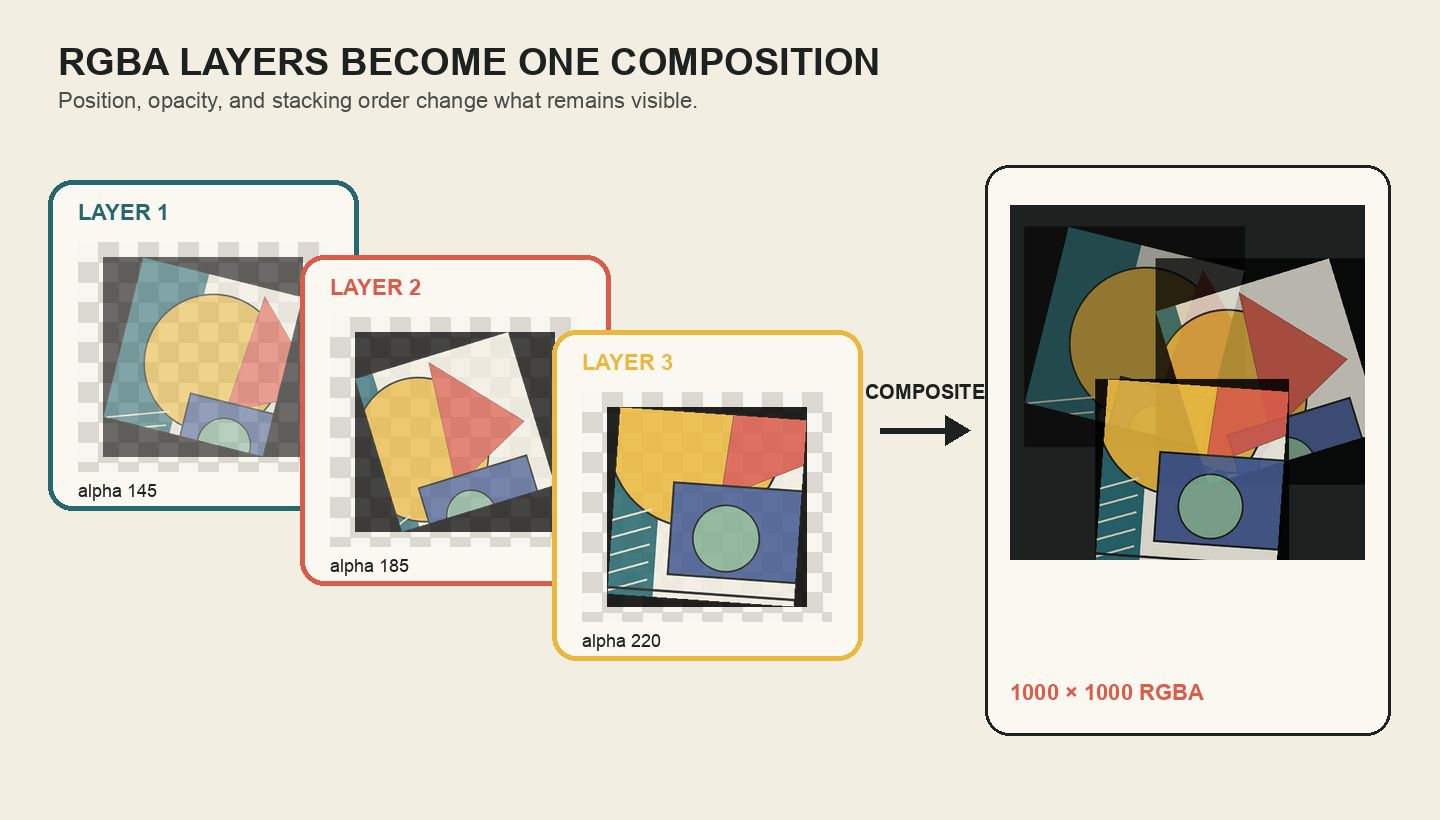
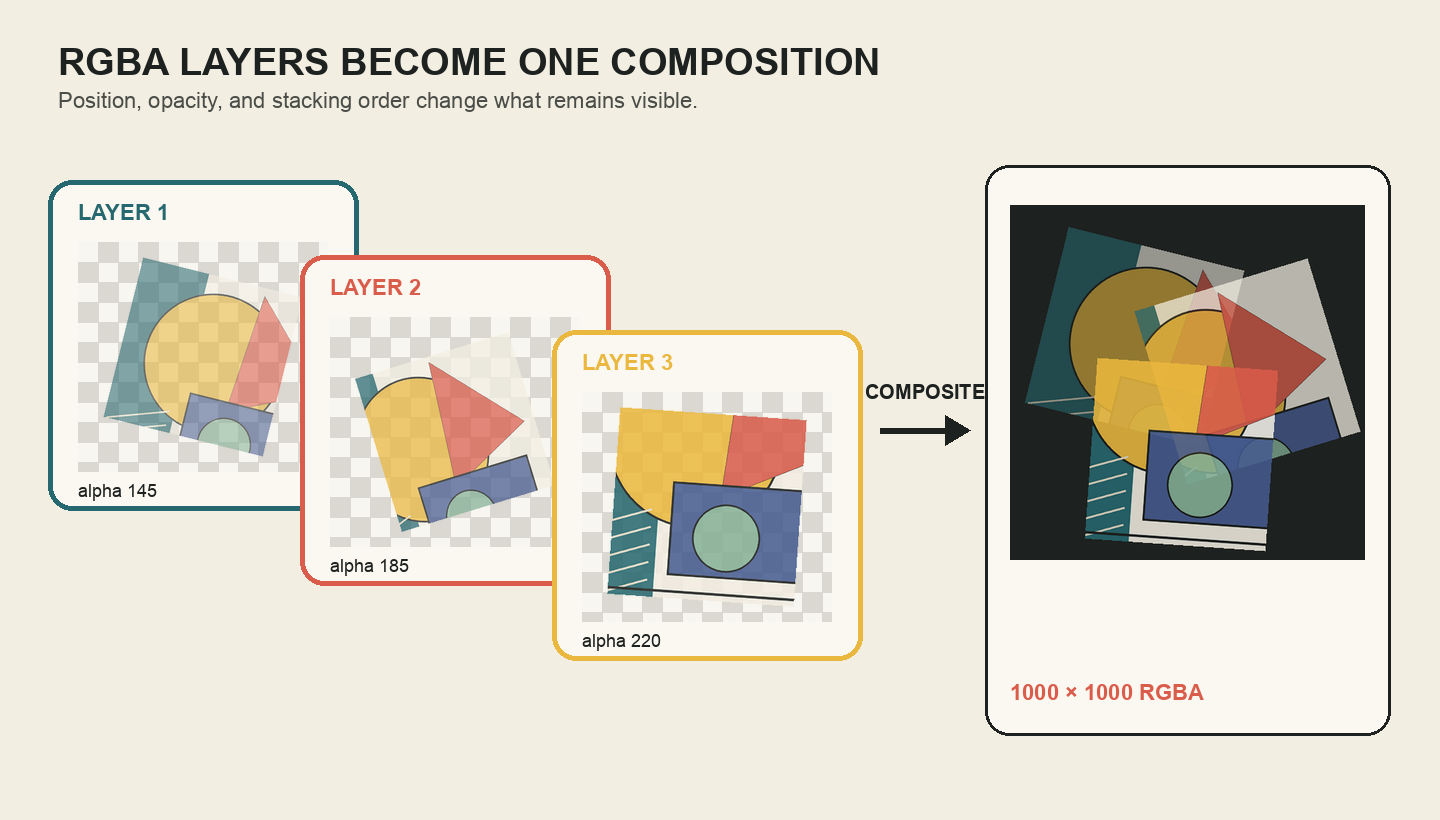
Harden week 7 mission checks and visuals

Changed region(s): [[0.0625, 0.3049, 0.5625, 0.6707], [0.75, 0.3049, 0.9688, 0.7012], [0.4062, 0.5793, 0.5625, 0.7622]]

diff --git a/teaching/contents-programming/week-07-period2.html b/teaching/contents-programming/week-07-period2.html
@@ -209,7 +209,7 @@ position = (x, y)</code></pre>
       <p>“<code>canvas</code> 위에 <code>layer</code>를 올리되, 레이어의 왼쪽 위를 <code>dest=(x, y)</code>에 맞추어 알파 합성한다”라고 읽습니다. 캔버스와 레이어는 모두 RGBA 모드여야 하며, 위치를 생략하면 왼쪽 위 <code>(0, 0)</code>을 기준으로 합성됩니다.</p>
 
       <pre><code>canvas.alpha_composite(layer_1, dest=(40, 70))
-canvas.alpha_composite(layer_2, dest=(565, 110))
+canvas.alpha_composite(layer_2, dest=(540, 110))
 canvas.alpha_composite(layer_3, dest=(345, 555))</code></pre>
 
       <p>코드는 위에서 아래로 실행됩니다. 따라서 <code>layer_1</code>이 먼저 놓이고, <code>layer_2</code>가 그 위에, <code>layer_3</code>가 가장 마지막에 놓입니다. 같은 위치와 알파 값을 사용해도 레이어 순서를 바꾸면 서로 가리는 부분이 달라져 최종 결과가 달라집니다.</p>
@@ -257,12 +257,13 @@ canvas.alpha_composite(layer_3, dest=(345, 555))</code></pre>
 
       <pre><code>canvas = Image.new("RGBA", (1000, 1000), (29, 33, 31, 255))
 
-layer_1 = make_layer(source_image, crop_box_1, (430, 430), -16, 150)
-layer_2 = make_layer(source_image, crop_box_2, (360, 360), 19, 190)
-layer_3 = make_layer(source_image, crop_box_3, (290, 290), -6, 225)
+crop_box = (140, 120, 760, 780)
+layer_1 = make_layer(source_image, crop_box, (420, 420), -16, 150)
+layer_2 = make_layer(source_image, crop_box, (340, 340), 19, 190)
+layer_3 = make_layer(source_image, crop_box, (260, 260), -6, 225)
 
 canvas.alpha_composite(layer_1, dest=(40, 70))
-canvas.alpha_composite(layer_2, dest=(565, 110))
+canvas.alpha_composite(layer_2, dest=(540, 110))
 canvas.alpha_composite(layer_3, dest=(345, 555))
 
 canvas.save("week07_20260000_김민지.png")</code></pre>
@@ -270,13 +271,13 @@ canvas.save("week07_20260000_김민지.png")</code></pre>
       <p><code>make_layer()</code>는 6주차에 배운 함수의 장점을 다시 사용합니다. 자르기와 크기 변경, 회전, 알파 적용이라는 반복 작업을 한 이름으로 묶고, 서로 다른 값만 인자로 전달합니다. 3교시 노트북에는 이 함수가 준비되어 있으므로 학생은 함수 내부를 고치지 않고 선택 값에 집중합니다.</p>
 
       <figure class="lesson-visual" aria-labelledby="prototype-caption">
-        <img src="assets/week-07-prototype-example.png" width="1200" height="900" loading="lazy" decoding="async" alt="한 수업용 원본을 서로 다른 영역과 크기, 각도, 투명도로 변형한 세 레이어를 어두운 정사각형 캔버스에 합성한 프로토타입">
+        <img src="assets/week-07-prototype-example.png" width="1200" height="900" loading="lazy" decoding="async" alt="한 수업용 원본의 같은 선택 영역을 서로 다른 크기, 각도, 투명도로 변형한 세 레이어를 어두운 정사각형 캔버스에 합성한 프로토타입">
         <figcaption id="prototype-caption">완성 예시는 정답 디자인이 아닙니다. 하나의 원본에서 서로 다른 세 레이어를 만들고, 겹침을 확인할 수 있는 구조의 예시입니다.</figcaption>
       </figure>
 
       <details class="callout callout-question">
         <summary class="callout-title">확인: 세 레이어가 같은 함수에서 나와도 다른 이유는?</summary>
-        <div class="details-motion-content"><p>함수의 규칙은 같지만 crop_box, 목표 크기, 각도, 알파, 위치라는 입력값이 다르기 때문입니다. 6주차에서 같은 생성 함수에 다른 매개변수를 넣어 변주를 만든 원리와 같습니다.</p></div>
+        <div class="details-motion-content"><p>함수의 규칙과 <code>crop_box</code>는 같지만 목표 크기, 각도, 알파, 위치라는 입력값이 다르기 때문입니다. 6주차에서 같은 생성 함수에 다른 매개변수를 넣어 변주를 만든 원리와 같습니다.</p></div>
       </details>
 
       <h2 id="source-record">44-50분 · 이미지의 허용 범위와 변형 기록하기</h2>

diff --git a/scripts/generate-week07-transformation-assets.py b/scripts/generate-week07-transformation-assets.py
@@ -1,5 +1,6 @@
 """Generate deterministic Week 7 teaching visuals for image transformation lessons."""
 
+from dataclasses import dataclass
 from pathlib import Path
 
 from PIL import Image, ImageDraw, ImageFont
@@ -16,6 +17,17 @@ CORAL = (218, 92, 74, 255)
 YELLOW = (234, 184, 62, 255)
 BLUE = (70, 91, 145, 255)
 MINT = (133, 177, 151, 255)
+
+
+@dataclass(frozen=True)
+class LayerSpec:
+    """Describe one transformed layer without relying on tuple positions."""
+
+    crop_box: tuple[int, int, int, int]
+    target_size: tuple[int, int]
+    angle: float
+    alpha: int
+    position: tuple[int, int]
 
 
 def font(size: int, bold: bool = False) -> ImageFont.ImageFont:
@@ -184,20 +196,17 @@ def make_transform_operations(source: Image.Image) -> Image.Image:
 
 def transformed_layer(
     source: Image.Image,
-    crop_box: tuple[int, int, int, int],
-    size: tuple[int, int],
-    angle: float,
-    alpha: int,
+    spec: LayerSpec,
 ) -> Image.Image:
-    layer = source.copy().crop(crop_box)
-    layer = layer.resize(size, Image.Resampling.LANCZOS)
+    layer = source.copy().crop(spec.crop_box)
+    layer = layer.resize(spec.target_size, Image.Resampling.LANCZOS)
+    layer.putalpha(spec.alpha)
     layer = layer.rotate(
-        angle,
+        spec.angle,
         expand=True,
         resample=Image.Resampling.BICUBIC,
         fillcolor=(0, 0, 0, 0),
     )
-    layer.putalpha(alpha)
     return layer
 
 
@@ -214,16 +223,16 @@ def make_alpha_composite(source: Image.Image) -> Image.Image:
     )
 
     layer_specs = [
-        ((80, 80, 650, 650), (255, 255), -14, 145),
-        ((250, 90, 830, 620), (255, 255), 17, 185),
-        ((190, 300, 710, 820), (255, 255), -4, 220),
+        LayerSpec((80, 80, 650, 650), (255, 255), -14, 145, (20, 30)),
+        LayerSpec((250, 90, 830, 620), (255, 255), 17, 185, (175, 75)),
+        LayerSpec((190, 300, 710, 820), (255, 255), -4, 220, (105, 215)),
     ]
     cards = [(48, 180), (300, 255), (552, 330)]
     colors = [TEAL, CORAL, YELLOW]
     layers: list[Image.Image] = []
 
     for index, (spec, card, color) in enumerate(zip(layer_specs, cards, colors, strict=True), start=1):
-        layer = transformed_layer(source, *spec)
+        layer = transformed_layer(source, spec)
         layers.append(layer)
         x, y = card
         rounded_panel(draw, (x, y, x + 310, y + 330), (250, 248, 241, 255), outline=color, width=5)
@@ -235,12 +244,11 @@ def make_alpha_composite(source: Image.Image) -> Image.Image:
             dest=(x + 45 + (220 - preview.width) // 2, y + 77 + (200 - preview.height) // 2),
         )
         draw.text((x + 30, y + 20), f"LAYER {index}", fill=color, font=font(22, bold=True))
-        draw.text((x + 30, y + 300), f"alpha {spec[3]}", fill=INK, font=font(18))
+        draw.text((x + 30, y + 300), f"alpha {spec.alpha}", fill=INK, font=font(18))
 
     canvas = Image.new("RGBA", (500, 500), (29, 33, 31, 255))
-    positions = [(20, 30), (205, 75), (120, 245)]
-    for layer, position in zip(layers, positions, strict=True):
-        canvas.alpha_composite(layer, dest=position)
+    for layer, spec in zip(layers, layer_specs, strict=True):
+        canvas.alpha_composite(layer, dest=spec.position)
 
     draw.line((880, 430, 945, 430), fill=INK, width=6)
     draw.polygon([(945, 415), (970, 430), (945, 445)], fill=INK)
@@ -254,14 +262,15 @@ def make_alpha_composite(source: Image.Image) -> Image.Image:
 
 def make_prototype(source: Image.Image) -> Image.Image:
     canvas = Image.new("RGBA", (1000, 1000), INK)
+    shared_crop_box = (140, 120, 760, 780)
     specs = [
-        ((80, 80, 650, 650), (430, 430), -16, 150, (40, 70)),
-        ((250, 90, 830, 620), (360, 360), 19, 190, (565, 110)),
-        ((190, 300, 710, 820), (290, 290), -6, 225, (345, 555)),
+        LayerSpec(shared_crop_box, (420, 420), -16, 150, (40, 70)),
+        LayerSpec(shared_crop_box, (340, 340), 19, 190, (540, 110)),
+        LayerSpec(shared_crop_box, (260, 260), -6, 225, (345, 555)),
     ]
-    for crop_box, target_size, angle, alpha, position in specs:
-        layer = transformed_layer(source, crop_box, target_size, angle, alpha)
-        canvas.alpha_composite(layer, dest=position)
+    for spec in specs:
+        layer = transformed_layer(source, spec)
+        canvas.alpha_composite(layer, dest=spec.position)
 
     draw = ImageDraw.Draw(canvas)
     draw.rectangle((56, 56, 944, 944), outline=PAPER, width=4)
@@ -274,7 +283,7 @@ def make_prototype(source: Image.Image) -> Image.Image:
     presentation_draw.text((58, 44), "TRANSFORMATION PROTOTYPE", fill=INK, font=font(38, bold=True))
     presentation_draw.text(
         (58, 92),
-        "Three crops, three rotations, three opacity values — one source image.",
+        "One crop, three scales, three rotations — one source image.",
         fill=(75, 78, 72, 255),
         font=font(22),
     )
